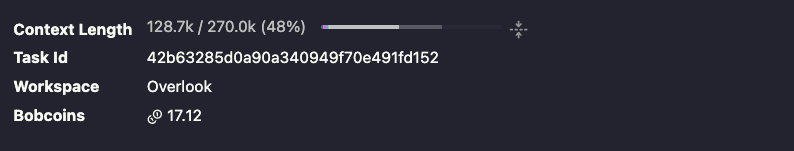
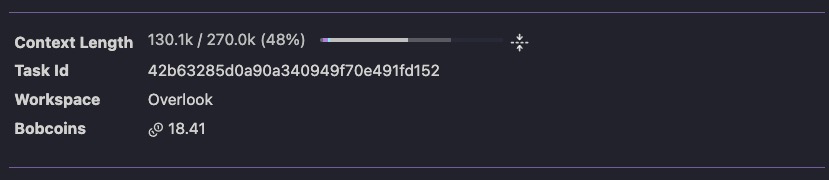
Bob sessions: task 04 and 05 summaries and the fourth account budget; verify: local binaries on PATH for base test scripts

diff --git a/README.md b/README.md
@@ -11,7 +11,7 @@
 [![Live demo](https://img.shields.io/badge/▶_live_demo-overlook--lime.vercel.app-3b82d4?style=for-the-badge)](https://overlook-lime.vercel.app/)
 
 [![Built with IBM Bob 2.0](https://img.shields.io/badge/built_with-IBM_Bob_2.0-0f62fe?style=flat-square)](#built-with-ibm-bob-20)
-[![Tests](https://img.shields.io/badge/tests-47_passing-3c873a?style=flat-square)](engine/test)
+[![Tests](https://img.shields.io/badge/tests-48_passing-3c873a?style=flat-square)](engine/test)
 [![No dependencies](https://img.shields.io/badge/npm_dependencies-0-informational?style=flat-square)](package.json)
 [![MIT license](https://img.shields.io/badge/license-MIT-7c5cd8?style=flat-square)](LICENSE)
 
@@ -105,7 +105,7 @@ Without Bob, Overlook still runs on logic alone and labels the result **Draft au
 
 ### How we built it with Bob
 
-Three of our accounts ran Bob until each 40-Bobcoin budget was gone. We planned in Plan mode, wrote code and tests in Agent mode, ran the service to check it, and went back for fixes.
+Four of our accounts ran Bob until each 40-Bobcoin budget was gone. We planned in Plan mode, wrote code and tests in Agent mode, ran the service to check it, and went back for fixes.
 
 | | Bob 2.0 | What Bob did |
 |:---:|---|---|
@@ -113,8 +113,9 @@ Three of our accounts ran Bob until each 40-Bobcoin budget was gone. We planned 
 | **Plan** | Plan mode, document understanding | Read the brief and wrote [`docs/PLAN.md`](docs/PLAN.md): phases, done checks, an acceptance matrix and a Bobcoin budget |
 | **Build** | Agent mode, 7 subtasks | Built the first version phase by phase, each subtask in a fresh context, with tests and a commit after every phase |
 | **Fix** | Agent mode, a second account | Worked through the review list and regenerated the samples |
-| **Audit** | Overlook Auditor mode | Ran the product's own audit on real work: three finished agent tasks in public repositories, finding a false claim in both Copilot PRs |
 | **Review** | Agent mode | Read the whole finished codebase, removed dead code, added tests, and closed a hole where an agent could fake "tests pass" by rewriting the test script |
+| **Audit** | Overlook Auditor mode | Ran the product's own audit on real work: three finished agent tasks in public repositories, finding a false claim in both Copilot PRs |
+| **Verify** | Agent mode | Added a serverless API for hosting and ran the original tests on the Atlas example for real: 78 pass |
 
 <table>
   <tr>
@@ -122,11 +123,12 @@ Three of our accounts ran Bob until each 40-Bobcoin budget was gone. We planned 
     <td align="center"><img src="bob_sessions/timehasdensity_task01_full_task_session.png" width="220" alt="Task 01 session summary" /><br/><sub>Plan and build · 39.55</sub></td>
     <td align="center"><img src="bob_sessions/timehasdensity_task02_full_task_session.png" width="220" alt="Task 02 session summary" /><br/><sub>Fix · 39.95</sub></td>
     <td align="center"><img src="bob_sessions/timehasdensity_task03_full_task_session.png" width="220" alt="Task 03 session summary" /><br/><sub>Review · 32.53</sub></td>
-    <td align="center"><img src="bob_sessions/timehasdensity_task04_session_header.png" width="220" alt="Task 04 session summary" /><br/><sub>Audit · 17.12</sub></td>
+    <td align="center"><img src="bob_sessions/timehasdensity_task04_session_header.png" width="220" alt="Task 04 session summary" /><br/><sub>Audit · 18.41</sub></td>
+    <td align="center"><img src="bob_sessions/timehasdensity_task05_full_task_session.png" width="220" alt="Task 05 session summary" /><br/><sub>Verify · 21.02</sub></td>
   </tr>
 </table>
 
-**5 tasks · 136 Bobcoins.** We spent Bobcoins only where judgment was needed and kept every fact in plain code, and we opened a new task per phase so each context stayed small. Screenshots per teammate are in [`bob_sessions/`](bob_sessions/), Task Ids in [`docs/BOB_SESSIONS.md`](docs/BOB_SESSIONS.md), the files Bob wrote in [`BOB_CONTRIBUTIONS.md`](BOB_CONTRIBUTIONS.md), and the story from first prototype to this version in [`docs/EVOLUTION.md`](docs/EVOLUTION.md).
+**6 tasks · 4 accounts · 158 Bobcoins, every budget used.** We spent Bobcoins only where judgment was needed and kept every fact in plain code, and we opened a new task per phase so each context stayed small. Screenshots per teammate are in [`bob_sessions/`](bob_sessions/), Task Ids in [`docs/BOB_SESSIONS.md`](docs/BOB_SESSIONS.md), the files Bob wrote in [`BOB_CONTRIBUTIONS.md`](BOB_CONTRIBUTIONS.md), and the story from first prototype to this version in [`docs/EVOLUTION.md`](docs/EVOLUTION.md).
 
 ## Try it
 
@@ -196,7 +198,7 @@ You get back a link to the map and a receipt you can post on the pull request.
 |---|---|---|---|
 | github-mcp-server #1645 | [github/github-mcp-server](https://github.com/github/github-mcp-server/pull/1645) (Copilot) | A compatibility fix that also rewrites a test expectation and five tool snapshots: 5 of 7 files outside the request; "tests pass" is only partly true | **IBM Bob** (Overlook Auditor mode) |
 | playwright-mcp #725 | [microsoft/playwright-mcp](https://github.com/microsoft/playwright-mcp/pull/725) (Copilot) | Inside the request, but the description still claims a change a later commit reverted; squash-merged a day later | **IBM Bob** (Overlook Auditor mode) |
-| Atlas · Bob session 10 | [chanjoongx/atlas](https://github.com/chanjoongx/atlas) (IBM Bob hackathon, May 2026, 2nd place) | Committed straight to main; Bob stayed inside the four files the prompt named | **IBM Bob** (Overlook Auditor mode) |
+| Atlas · Bob session 10 | [chanjoongx/atlas](https://github.com/chanjoongx/atlas) (IBM Bob hackathon, May 2026, 2nd place) | Committed straight to main; Bob stayed inside the four files the prompt named, and the original 78 tests pass | **IBM Bob** (Overlook Auditor mode) |
 
 **Scripted scenarios**, audited by the same engine: the GT-142 demo, a UI feature that leaks into infrastructure (`infra-drift`), a rename across a 625-file monorepo (`monorepo-scale`) and a clean pass for contrast. The scripted ones are clearly labelled and never passed off as real agent runs.
 
@@ -234,7 +236,7 @@ docs/            architecture, plan, Bob sessions, evolution, measurements, scre
 ```
 
 ```bash
-npm test          # 47 node:test tests
+npm test          # 48 node:test tests
 npm run site      # local site and API on http://localhost:4280
 npm run mcp       # MCP server over stdio for Bob
 npm run sample    # rebuild the GT-142 sample

diff --git a/bob_sessions/README.md b/bob_sessions/README.md
@@ -1,6 +1,6 @@
 # Bob sessions
 
-Team **Time Has Density** built Overlook with IBM Bob 2.0. Each screenshot below is the task session summary from Bob IDE, captured by the team member who ran the task in their own account. The three accounts on the budget pages below each used their full 40-Bobcoin budget.
+Team **Time Has Density** built Overlook with IBM Bob 2.0. Each screenshot below is the task session summary from Bob IDE, captured by the team member who ran the task in their own account. The four accounts on the budget pages below each used their full 40-Bobcoin budget.
 
 | # | Captured by | Task | Bobcoins |
 |---|---|---|---:|
@@ -8,9 +8,9 @@ Team **Time Has Density** built Overlook with IBM Bob 2.0. Each screenshot below
 | 01 | Asher | Plan, then build the first version in seven subtasks | 39.55 |
 | 02 | seokyoung0213 | Fix the review findings | 39.95 |
 | 03 | JONGSKY | Review and harden the finished codebase | 32.53 |
-| 04 | tour_captain | Run the Overlook Auditor mode on 3 real agent PRs, fill the metrics | 17.12 |
-| 05 | JONGSKY | Vercel deployment + run `/verify` on atlas example | — |
-| | **Team** | **6 tasks** | **136.15+** |
+| 04 | Jeong Hae Jun | Run the Overlook Auditor mode on 3 real agent PRs, fill the metrics | 18.41 |
+| 05 | Jeong Hae Jun | Vercel deployment + run `/verify` on atlas example | 21.02 |
+| | **Team** | **6 tasks, 4 accounts** | **158.46** |
 
 ---
 
@@ -59,7 +59,7 @@ Team **Time Has Density** built Overlook with IBM Bob 2.0. Each screenshot below
 
 ## Task 04 · Prove Bob runs inside Overlook
 
-**Captured by tour_captain** · Sep 27 · Task Id `42b63285d0a90a340949f70e491fd152` · 17.12 Bobcoins
+**Captured by Jeong Hae Jun** · Sep 27 · Task Id `42b63285d0a90a340949f70e491fd152` · 18.41 Bobcoins
 
 ![Task 04 session summary](timehasdensity_task04_session_header.png)
 
@@ -72,28 +72,11 @@ Team **Time Has Density** built Overlook with IBM Bob 2.0. Each screenshot below
 
 ---
 
-## Budgets
-
-Each team member's Bob account page: a 40.00 Bobcoin budget, fully used. Emails are partly hidden.
-
-| Account | Used |
-|---|---:|
-| JONGSKY | 40.03 |
-| Team account (ck…) | 40.02 |
-| Team account (sy…) | 40.27 |
-| **Total** | **120.32** |
-
-The account pages count every task an account ran, so the total is a little above the sum of the four tasks above.
-
-![JONGSKY account: 40.00 budget, 40.03 used](timehasdensity_jongsky_budget.png)
-
-![Team account: 40.00 budget, 40.02 used](timehasdensity_account_ck_budget.png)
-
-![Team account: 40.00 budget, 40.27 used](timehasdensity_account_sy_budget.png)
-
 ## Task 05 · Vercel deployment + /verify on atlas
 
-**Captured by JONGSKY** · Sep 27
+**Captured by Jeong Hae Jun** · Sep 27 · Task Id `f5f78301537c791815c9daf473fdbf71` · 21.02 Bobcoins
+
+![Task 05 session summary](timehasdensity_task05_full_task_session.png)
 
 Full write-up: [`bob_sessions/timehasdensity_task05_vercel_and_verify.md`](timehasdensity_task05_vercel_and_verify.md)
 
@@ -104,3 +87,27 @@ Full write-up: [`bob_sessions/timehasdensity_task05_vercel_and_verify.md`](timeh
 ---
 
 Task Ids and per-phase usage: [`docs/BOB_SESSIONS.md`](../docs/BOB_SESSIONS.md). Files Bob wrote: [`BOB_CONTRIBUTIONS.md`](../BOB_CONTRIBUTIONS.md).
+
+---
+
+## Budgets
+
+Each team member's Bob account page: a 40.00 Bobcoin budget, fully used. Emails are partly hidden.
+
+| Account | Used |
+|---|---:|
+| JONGSKY | 40.03 |
+| Team account (ck…) | 40.02 |
+| Team account (sy…) | 40.27 |
+| Jeong Hae Jun (go…) | 40.09 |
+| **Total** | **160.41** |
+
+The account pages count every task an account ran, so the total is a little above the sum of the tasks above.
+
+![JONGSKY account: 40.00 budget, 40.03 used](timehasdensity_jongsky_budget.png)
+
+![Team account: 40.00 budget, 40.02 used](timehasdensity_account_ck_budget.png)
+
+![Team account: 40.00 budget, 40.27 used](timehasdensity_account_sy_budget.png)
+
+![Jeong Hae Jun account: 40.00 budget, 40.09 used](timehasdensity_account_go_budget.png)

diff --git a/docs/BOB_SESSIONS.md b/docs/BOB_SESSIONS.md
@@ -49,17 +49,17 @@ Task 02 also ended at the 40-Bobcoin limit. Session summary: `bob_sessions/timeh
 |---|---|---|---|---|---|---|
 | 03 | Whole-codebase review: dead code removed, a double stat and an audit URL path fixed, tests strengthened (temp-dir cleanup, health, static files, failing checks, test-diff analysis), the original test command taken from base, README polished | Agent | `2a3f849272487143b4f35663fa8b3e7d` | 223.1k / 270k | **32.53** | `92996ad`, `5083312`, `4f6b39f` |
 
-### Task 04 · Prove Bob runs inside Overlook (tour_captain, workspace `Overlook`)
+### Task 04 · Prove Bob runs inside Overlook (Jeong Hae Jun's account, workspace `Overlook`)
 
 | # | Task | Mode | Task Id | Context | Bobcoins | Commits |
 |---|---|---|---|---|---|---|
-| 04 | Committed 4 untracked skills; ran Overlook Auditor mode on 3 real agent PRs (atlas, github-mcp-server, playwright-mcp); filled metrics.md; resolved merge conflict and pushed | Agent (Overlook Auditor mode) | `42b63285d0a90a340949f70e491fd152` | 128.7k / 270k | **17.12** | `93f5697`, `80c6027`, `1409a2b`, `583f20f` |
+| 04 | Committed 4 untracked skills; ran Overlook Auditor mode on 3 real agent PRs (atlas, github-mcp-server, playwright-mcp); filled metrics.md; resolved merge conflict and pushed | Agent (Overlook Auditor mode) | `42b63285d0a90a340949f70e491fd152` | 130.1k / 270k | **18.41** | `93f5697`, `80c6027`, `1409a2b`, `583f20f` |
 
-### Task 05 · Vercel deployment + /verify on real example (JONGSKY's account, workspace `Overlook`)
+### Task 05 · Vercel deployment + /verify on real example (Jeong Hae Jun's account, workspace `Overlook`)
 
 | # | Task | Mode | Task Id | Commits |
 |---|---|---|---|---|
-| 05 | Added `api/` Serverless Functions; adapted `out/` storage to `/tmp` on Vercel; fixed bare-binary test command detection and `npm ci` fallback; ran `crossTests` on atlas (78 tests pass); updated city.json with `runs.cross`; recorded session | Agent | _(this conversation)_ | `cb114b3`, `91c26a2`, _(this commit)_ |
+| 05 | Added `api/` Serverless Functions; adapted `out/` storage to `/tmp` on Vercel; fixed bare-binary test command detection and `npm ci` fallback; ran `crossTests` on atlas (78 tests pass); updated city.json with `runs.cross`; recorded session | Agent | `f5f78301537c791815c9daf473fdbf71` (135.8k / 270k, **21.02** Bobcoins) | `11db229`, `33c67ec`, `b0457bf` |
 
 Full write-up: [`bob_sessions/timehasdensity_task05_vercel_and_verify.md`](../bob_sessions/timehasdensity_task05_vercel_and_verify.md)
 
@@ -90,7 +90,8 @@ Two small commits were made by hand and are marked `[manual]` in their commit me
 | `timehasdensity_task01_full_task_session.png` | session summary of task 01, all subtasks included (39.55 Bobcoins, Task Id `d0dc5380…`) | saved |
 | `timehasdensity_task02_full_task_session.png` | session summary of task 02 (39.95 Bobcoins, Task Id `fee241e4…`) | saved |
 | `timehasdensity_task03_full_task_session.png` | session summary of task 03 (32.53 Bobcoins, Task Id `2a3f8492…`) | saved |
-| `timehasdensity_task04_session_header.png` | session summary of task 04 (17.12 Bobcoins, Task Id `42b63285…`, context 128.7k / 270k) | saved |
+| `timehasdensity_task04_session_header.png` | session summary of task 04 (18.41 Bobcoins, Task Id `42b63285…`, context 130.1k / 270k) | saved |
+| `timehasdensity_task05_full_task_session.png` | session summary of task 05 (21.02 Bobcoins, Task Id `f5f78301…`, context 135.8k / 270k) | saved |
 
 Subtask usage is recorded as numbers in `bob_sessions/README.md` instead of separate screenshots.
 

diff --git a/docs/EVOLUTION.md b/docs/EVOLUTION.md
@@ -18,7 +18,7 @@ Bob 2.0 was used at every stage: to plan the project, to build it, and as the en
 | Configure | **Custom modes**, **mode rules**, **skills**, **AGENTS.md** | Bob wrote its own configuration in P1: the `overlook-auditor` mode with a `fileRegex` write limit, the audit rules, the `fence-mapper`, `claim-extractor` and `business-translate` skills |
 | Run | **Parallel subagents**, **MCP**, **slash commands** | In the product, the Auditor mode reads the brief, runs four subagents at once (fence, claims, checks, plain language), calls the Overlook MCP tools, and the Fixer mode fixes forward inside the requested area |
 
-Bob ran five tasks: task 00 (7.00 Bobcoins) started the repository, tasks 01 (39.55) and 02 (39.95) built and fixed the prototype, task 03 (32.53) reviewed and hardened the finished codebase, and task 04 (17.12) ran the Overlook Auditor mode on three real agent tasks: **136.15 Bobcoins** in total. The three build accounts each used their full 40-Bobcoin budget. Task Ids, usage and session summary screenshots are in [`bob_sessions/`](../bob_sessions/) and [`docs/BOB_SESSIONS.md`](BOB_SESSIONS.md).
+Bob ran six tasks on four team accounts, each until its 40-Bobcoin budget was spent: task 00 (7.00 Bobcoins) started the repository, tasks 01 (39.55) and 02 (39.95) built and fixed the prototype, task 03 (32.53) reviewed and hardened the finished codebase, task 04 (18.41) ran the Overlook Auditor mode on three real agent tasks, and task 05 (21.02) added a serverless API for hosting and ran the original tests on the Atlas example: **158.46 Bobcoins** in total. Task Ids, usage and session summary screenshots are in [`bob_sessions/`](../bob_sessions/) and [`docs/BOB_SESSIONS.md`](BOB_SESSIONS.md).
 
 ## History of the current version
 

diff --git a/bob_sessions/timehasdensity_task05_vercel_and_verify.md b/bob_sessions/timehasdensity_task05_vercel_and_verify.md
@@ -1,6 +1,6 @@
 # Task 05 · Vercel deployment + /verify on real example
 
-**Account:** JONGSKY · **Date:** Sep 27, 2026 · **Mode:** Agent
+**Account:** Jeong Hae Jun · **Date:** Sep 27, 2026 · **Mode:** Agent · **Task Id:** `f5f78301537c791815c9daf473fdbf71` · **Bobcoins:** 21.02
 
 ---
 
@@ -65,9 +65,9 @@ City updated: `samples/real/atlas-production-fixes.city.json` now contains `runs
 
 | Commit | Message |
 |--------|---------|
-| `cb114b3` | Add Vercel Serverless Functions and /tmp storage for hosted deployment |
-| `91c26a2` | Run crossTests on atlas: 78 tests pass, tests_pass claim verified true |
-| _(this commit)_ | Record task 05 in bob_sessions/ |
+| `11db229` | Add Vercel Serverless Functions and /tmp storage for hosted deployment |
+| `33c67ec` | Run crossTests on atlas: 78 tests pass, tests_pass claim verified true |
+| `b0457bf` | Record task 05 in bob_sessions/ |
 
 ---
 

diff --git a/docs/metrics.md b/docs/metrics.md
@@ -38,8 +38,9 @@ Bob found a false claim in both Copilot PRs (2 of 2). In each case the agent's d
 | Task 01 | Plan → Agent (7 subtasks) | 39.55 | Plan, full first version phase by phase |
 | Task 02 | Agent | 39.95 | Review fixes, test collection, bilingual text, samples |
 | Task 03 | Agent | 32.53 | Code review, stronger tests, security fix, README |
-| Task 04 | Overlook Auditor mode | 17.12 | Bob audits of the three real agent tasks, these metrics |
-| **Total** | **5 tasks** | **136.15** | |
+| Task 04 | Overlook Auditor mode | 18.41 | Bob audits of the three real agent tasks, these metrics |
+| Task 05 | Agent | 21.02 | Serverless API for hosting; the original tests run on the Atlas example (78 pass) |
+| **Total** | **6 tasks, 4 accounts** | **158.46** | |
 
 Full session records: [`bob_sessions/`](../bob_sessions/), [`docs/BOB_SESSIONS.md`](BOB_SESSIONS.md).
 
